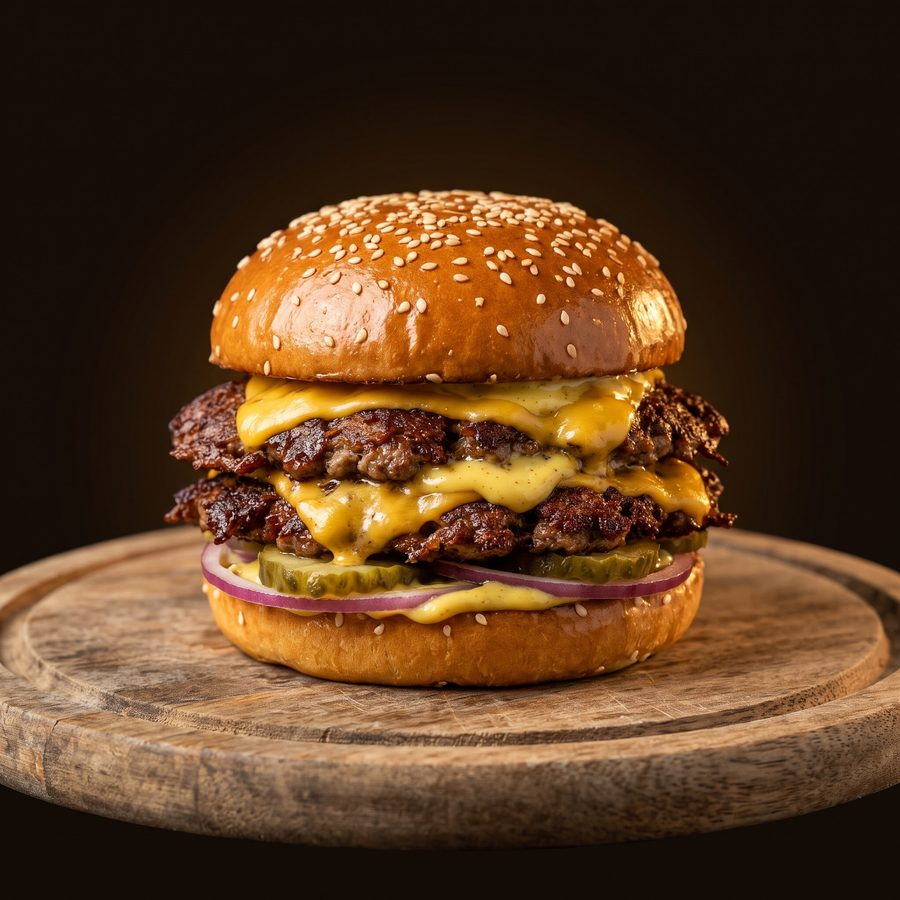
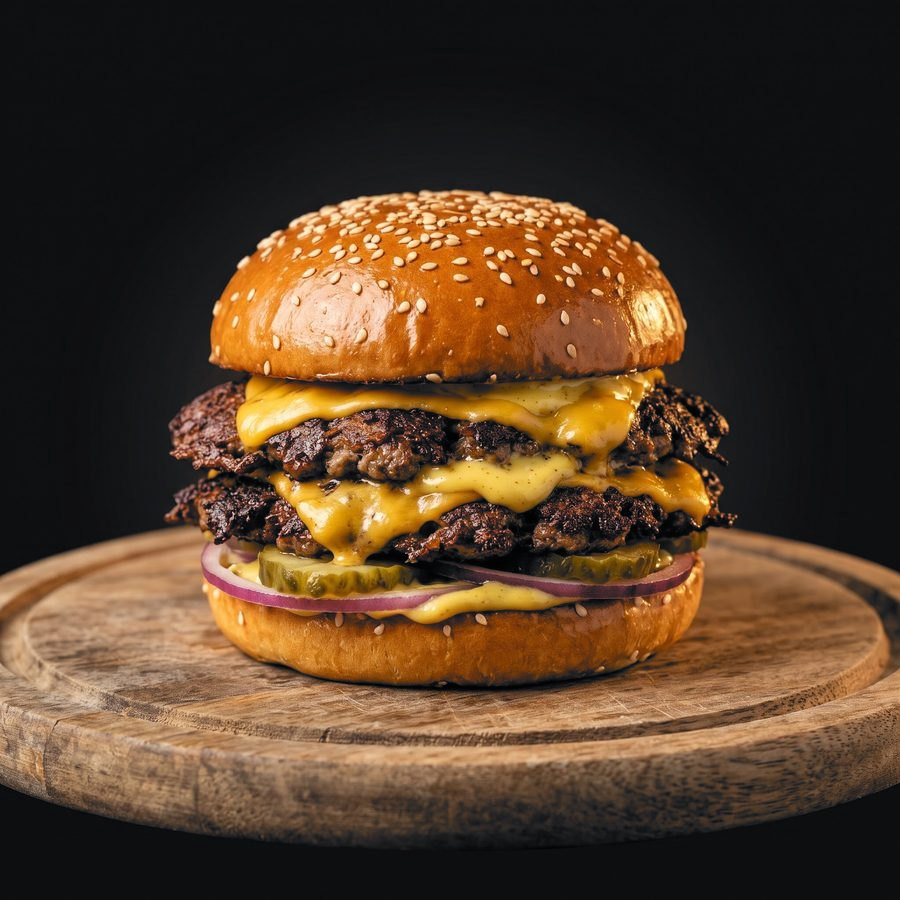
Floating side panel from the right, graphite look, swipe right to close
Claude-Session: https://claude.ai/code/session_01HZuk1ujbad4nfKdnELU9J8

diff --git a/index.html b/index.html
@@ -11,15 +11,16 @@
 :root{
   /* One world: a burger bar after dark. The page colour matches the photos so they blend in.
      Phone: hero photo, headline, then burger photo, picker and builder stacked. Wide: headline over the dark side of the hero; photo left, builder right. */
-  --char:#150c07;
-  --coal:#21160f;
-  --ember:#302119;
-  --bone:#f6ecdd;
-  --ash:#c2b1a0;
+  --char:#111214;
+  --coal:#1a1c20;
+  --ember:#25282e;
+  --bone:#f4f1ea;
+  --ash:#a8acb4;
   --mustard:#e9a53a;
   --ketchup:#ec5a41;
   --pickle:#9bcb58;
-  --line:rgba(246,236,221,.14);
+  --line:rgba(255,255,255,.10);
+  --glass:rgba(30,32,37,.82);
   --display:"Fraunces",Georgia,"Times New Roman",serif;
   --body:"Figtree",system-ui,-apple-system,"Segoe UI",Roboto,sans-serif;
   color-scheme:dark;
@@ -37,7 +38,7 @@ h1,h2,h3{font-family:var(--display);font-weight:600;line-height:1.1;text-wrap:ba
 
 
 .top{display:flex;flex-wrap:wrap;align-items:center;justify-content:space-between;gap:8px;padding-top:12px;padding-bottom:12px}
-.top{position:sticky;top:0;z-index:15;background:rgba(21,12,7,.9);box-shadow:0 0 0 100vmax rgba(21,12,7,.9);clip-path:inset(0 -100vmax);-webkit-backdrop-filter:blur(10px);backdrop-filter:blur(10px)}
+.top{position:sticky;top:0;z-index:15;background:rgba(17,18,20,.86);box-shadow:0 0 0 100vmax rgba(17,18,20,.86);clip-path:inset(0 -100vmax);-webkit-backdrop-filter:blur(10px);backdrop-filter:blur(10px)}
 .brand{display:flex;align-items:center;gap:8px;color:var(--bone);text-decoration:none}
 .brand b{font-family:var(--display);font-weight:500;font-style:italic;font-size:25px;line-height:1;display:block;letter-spacing:-.01em}
 .brand small{display:block;font-size:10px;letter-spacing:.3em;text-transform:uppercase;color:var(--mustard);margin-top:3px}
@@ -70,13 +71,13 @@ h1{font-size:clamp(34px,9.4vw,44px)}
 h1 em{font-style:italic;font-weight:500;color:var(--mustard)}
 .lede{color:var(--ash);max-width:46ch}
 
-.pop-photo{position:relative;margin:0 -16px;height:clamp(220px,64vw,300px);overflow:hidden;background:var(--char)}
+.pop-photo{position:relative;margin:0 -16px;height:clamp(190px,52vw,260px);border-radius:0;overflow:hidden;background:var(--char)}
 .pop-photo img{display:block;width:100%;height:100%;object-fit:cover;object-position:center 52%}
-.pop-photo::after{content:"";position:absolute;inset:0;pointer-events:none;background:linear-gradient(to bottom,var(--coal) 0,transparent 14%,transparent 70%,var(--coal) 100%)}
+.pop-photo img{-webkit-mask-image:linear-gradient(to bottom,transparent 0,#000 16%,#000 70%,transparent 100%);mask-image:linear-gradient(to bottom,transparent 0,#000 16%,#000 70%,transparent 100%)}
 .pop-head{display:flex;justify-content:space-between;align-items:flex-start;gap:12px}
 .pop-head .b-desc{color:var(--ash);font-size:15px}
 .pop-head .price{font-size:20px;color:var(--mustard)}
-.sheet-foot{display:flex;gap:10px;padding:12px 16px calc(12px + env(safe-area-inset-bottom,0px));border-top:1px solid var(--line);background:var(--coal);border-radius:0 0 22px 22px}
+.sheet-foot{display:flex;gap:10px;padding:12px 16px calc(12px + env(safe-area-inset-bottom,0px));border-top:1px solid var(--line);background:rgba(20,22,25,.7)}
 .sheet-foot .cta{min-height:50px}
 fieldset{border:0;margin:0;padding:0;min-width:0}
 legend{padding:0;font-size:12px;font-weight:700;letter-spacing:.14em;text-transform:uppercase;color:var(--ash);margin-bottom:8px}
@@ -122,8 +123,12 @@ legend small{text-transform:none;letter-spacing:0;font-weight:500;font-size:12px
 footer{border-top:1px solid var(--line);padding:18px 16px 26px;color:var(--ash);font-size:13px;text-align:center}
 
 
-.scrim{position:fixed;inset:0;background:rgba(8,5,4,.7);z-index:30}
-.sheet{position:fixed;left:0;right:0;bottom:0;z-index:31;max-height:92%;background:var(--coal);border-radius:22px 22px 0 0;border:1px solid var(--line);border-bottom:0;display:flex;flex-direction:column}
+.scrim{position:fixed;inset:0;background:rgba(5,6,8,.55);-webkit-backdrop-filter:blur(6px) saturate(.8);backdrop-filter:blur(6px) saturate(.8);z-index:30}
+.sheet{position:fixed;z-index:31;top:50%;right:14px;left:auto;bottom:auto;width:min(440px,calc(100% - 28px));height:min(84dvh,780px);display:flex;flex-direction:column;overflow:hidden;
+  background:radial-gradient(120% 60% at 0% 0%,rgba(233,165,58,.13),transparent 55%),radial-gradient(90% 50% at 100% 100%,rgba(236,90,65,.08),transparent 60%),var(--glass);
+  -webkit-backdrop-filter:blur(22px) saturate(1.2);backdrop-filter:blur(22px) saturate(1.2);
+  border:1px solid rgba(255,255,255,.09);border-radius:26px;box-shadow:0 30px 80px rgba(0,0,0,.6),0 0 0 1px rgba(0,0,0,.4),inset 0 1px 0 rgba(255,255,255,.06)}
+.sheet::before{content:"";position:absolute;left:22px;right:22px;top:0;height:2px;border-radius:2px;background:linear-gradient(90deg,transparent,var(--mustard),var(--ketchup),transparent);opacity:.85;pointer-events:none}
 .sheet-head{display:flex;align-items:center;gap:8px;padding:14px 14px 10px}
 .sheet-head h2{flex:1;font-size:20px}
 .icon{width:40px;height:40px;border-radius:50%;border:1px solid var(--line);background:none;font-size:18px;line-height:1;flex:none}
@@ -196,7 +201,7 @@ footer a{color:var(--ash)}
 .ticket .ilist>li{display:flex;gap:10px;align-items:flex-start}
 .ticket .ilist b{display:block;font-size:14px;padding-top:2px}
 .ticket .ilist small{display:block;font-size:13px;color:#6b5a4c}
-.ticket .ico{background:#2a1d14}
+.ticket .ico{background:#1f2125}
 .admin{max-width:920px;margin:0 auto;padding:6px 16px 48px}
 .admin-head{display:flex;flex-wrap:wrap;gap:10px;align-items:center;justify-content:space-between;margin:6px 0 4px}
 .admin-head h1{font-size:30px}
@@ -251,20 +256,15 @@ footer a{color:var(--ash)}
 .admin-login{max-width:380px;margin:30px auto}
 @media (min-width:760px){.two{display:grid;grid-template-columns:1fr 1fr;gap:16px;align-items:start}}
 
-@media (max-width:759px){
-  .sheet{top:0;height:100%;height:100dvh;max-height:none;border-radius:0;border:0;padding-top:env(safe-area-inset-top,0px)}
-  .sheet-foot{border-radius:0}
-}
 body.locked{position:fixed;left:0;right:0;overflow:hidden}
 @media (min-width:760px){
   .banner{min-height:clamp(400px,46vw,600px);display:flex;align-items:center;max-width:1500px;margin:0 auto}
   .banner-img{position:absolute;inset:0}
   .banner-img img{height:100%;object-fit:cover;object-position:right center}
-  .banner-img::after{background:linear-gradient(to right,var(--char) 0,rgba(21,12,7,.72) 26%,transparent 54%),linear-gradient(to top,var(--char) 0,transparent 20%),linear-gradient(to bottom,var(--char) 0,transparent 10%),linear-gradient(to left,var(--char) 0,transparent 5%)}
+  .banner-img::after{background:linear-gradient(to right,var(--char) 0,rgba(17,18,20,.72) 26%,transparent 54%),linear-gradient(to top,var(--char) 0,transparent 20%),linear-gradient(to bottom,var(--char) 0,transparent 10%),linear-gradient(to left,var(--char) 0,transparent 5%)}
   .banner-copy{margin-top:0;width:100%;padding-top:44px;padding-bottom:44px}
   .banner-copy>*{max-width:min(46%,470px)}
   h1{font-size:clamp(36px,4.6vw,58px)}
-  .sheet{left:auto;right:20px;top:20px;bottom:20px;width:430px;max-height:none;border-radius:22px;border-bottom:1px solid var(--line)}
     .info{grid-template-columns:1fr 1fr}
 }
 @media (min-width:920px){
@@ -274,16 +274,12 @@ body.locked{position:fixed;left:0;right:0;overflow:hidden}
 :root{--ease-out:cubic-bezier(.22,1,.36,1);--ease-spring:cubic-bezier(.34,1.56,.64,1)}
 .scrim{opacity:0;transition:opacity .32s ease}
 .scrim.show{opacity:1}
-.sheet{transform:translate3d(0,100%,0);transition:transform .42s var(--ease-out);will-change:transform;touch-action:pan-y}
-.sheet.show{transform:none}
+.sheet{transform:translate3d(calc(100% + 40px),-50%,0) scale(.96);opacity:.4;transition:transform .5s var(--ease-out),opacity .35s ease;will-change:transform;touch-action:pan-y}
+.sheet.show{transform:translate3d(0,-50%,0);opacity:1}
 .sheet.dragging{transition:none}
 .grab{display:none}
-@media (max-width:759px){
-  .grab{display:block;width:42px;height:5px;border-radius:3px;background:rgba(246,236,221,.28);margin:8px auto -4px;flex:none}
-}
-@media (min-width:760px){
-  .sheet{transform:translate3d(calc(100% + 40px),0,0)}
-  .sheet.show{transform:none}
+@media (hover:none){
+  .grab{display:block;position:absolute;left:7px;top:50%;width:4px;height:46px;margin-top:-23px;border-radius:3px;background:rgba(255,255,255,.22);z-index:2;pointer-events:none}
 }
 .sheet-body.enter>*{animation:fadeUp .38s var(--ease-out) both}
 .sheet-body.enter>*:nth-child(2){animation-delay:.03s}
@@ -1119,37 +1115,35 @@ $('#sheetClose').addEventListener('click', closeSheet);
 $('#scrim').addEventListener('click', closeSheet);
 $('#sheetBack').addEventListener('click', function(){ state.view = this.dataset.to || 'cart'; state.formErr = null; renderSheet(true); });
 document.addEventListener('keydown', function(e){ if (e.key === 'Escape' && sheetOpen) closeSheet(); });
-/* Pull the popup down to close it (phones). Drag from the top bar anywhere, or from the content when it is scrolled to the top. */
+/* Swipe the side panel to the right to close it (touch screens). Vertical swipes still scroll the content. */
 (function(){
-  var sh = $('#sheet'), sc = $('#scrim'), sb = $('#sheetBody'), drag = null;
+  var sh = $('#sheet'), sc = $('#scrim'), drag = null;
   sh.addEventListener('touchstart', function(e){
-    if (window.innerWidth >= 760 || e.touches.length !== 1 || !sheetOpen) return;
-    var inHead = !!e.target.closest('.sheet-head,.grab'), inBody = sb.contains(e.target);
-    if (!inHead && !(inBody && sb.scrollTop <= 0)) return;
-    drag = { y0: e.touches[0].clientY, y: e.touches[0].clientY, t: Date.now(), v: 0, dy: 0, active: false, head: inHead };
+    if (e.touches.length !== 1 || !sheetOpen) return;
+    if (e.target.closest('input[type=range]')) return;
+    drag = { x0: e.touches[0].clientX, y0: e.touches[0].clientY, x: e.touches[0].clientX, t: Date.now(), v: 0, dx: 0, active: false };
   }, { passive: true });
   sh.addEventListener('touchmove', function(e){
     if (!drag) return;
-    var y = e.touches[0].clientY, dy = y - drag.y0;
+    var x = e.touches[0].clientX, dx = x - drag.x0, dy = e.touches[0].clientY - drag.y0;
     if (!drag.active) {
-      if (dy > 6) {
-        if (!drag.head && sb.scrollTop > 0) { drag = null; return; }
-        drag.active = true; sh.classList.add('dragging');
-      } else if (dy < -6) { drag = null; return; }
-      else return;
+      if (Math.abs(dx) < 10 && Math.abs(dy) < 10) return;
+      if (dx > 0 && Math.abs(dx) > Math.abs(dy) * 1.3) { drag.active = true; sh.classList.add('dragging'); }
+      else { drag = null; return; }
     }
     if (e.cancelable) e.preventDefault();
-    var now = Date.now(); drag.v = (y - drag.y) / Math.max(1, now - drag.t); drag.y = y; drag.t = now;
-    drag.dy = Math.max(0, dy - 6);
-    sh.style.transform = 'translate3d(0,' + drag.dy + 'px,0)';
-    sc.style.opacity = String(Math.max(0, 1 - drag.dy / (sh.offsetHeight * 0.85)));
+    var now = Date.now(); drag.v = (x - drag.x) / Math.max(1, now - drag.t); drag.x = x; drag.t = now;
+    drag.dx = Math.max(0, dx - 10);
+    var k = drag.dx / sh.offsetWidth;
+    sh.style.transform = 'translate3d(' + drag.dx + 'px,-50%,0) rotate(' + (k * 3) + 'deg)';
+    sc.style.opacity = String(Math.max(0, 1 - k * 1.1));
   }, { passive: false });
   function end(){
     if (!drag) return;
     var d = drag; drag = null;
     if (!d.active) return;
     sh.classList.remove('dragging');
-    if (d.dy > Math.min(160, sh.offsetHeight * 0.22) || (d.v > 0.45 && d.dy > 24)) closeSheet();
+    if (d.dx > sh.offsetWidth * 0.3 || (d.v > 0.45 && d.dx > 24)) closeSheet();
     else { sh.style.transform = ''; sc.style.opacity = ''; }
   }
   sh.addEventListener('touchend', end);
